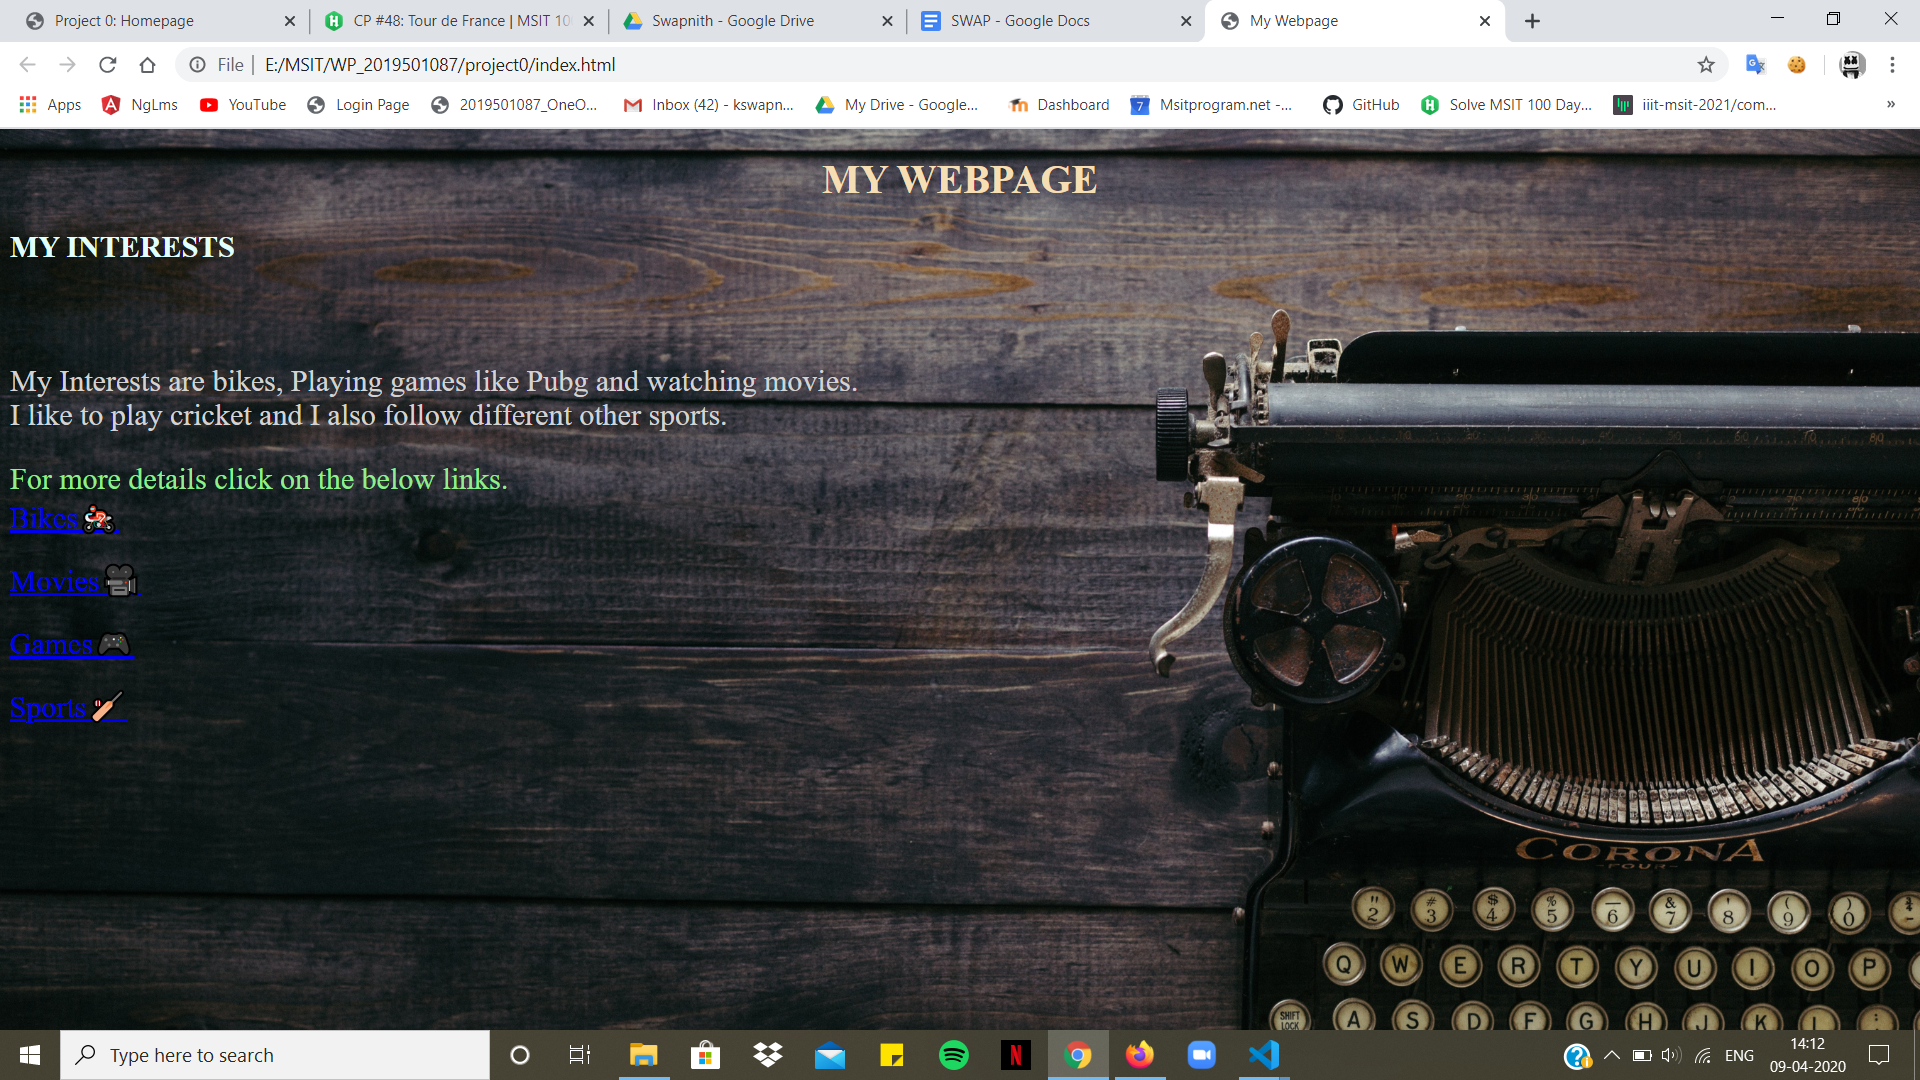
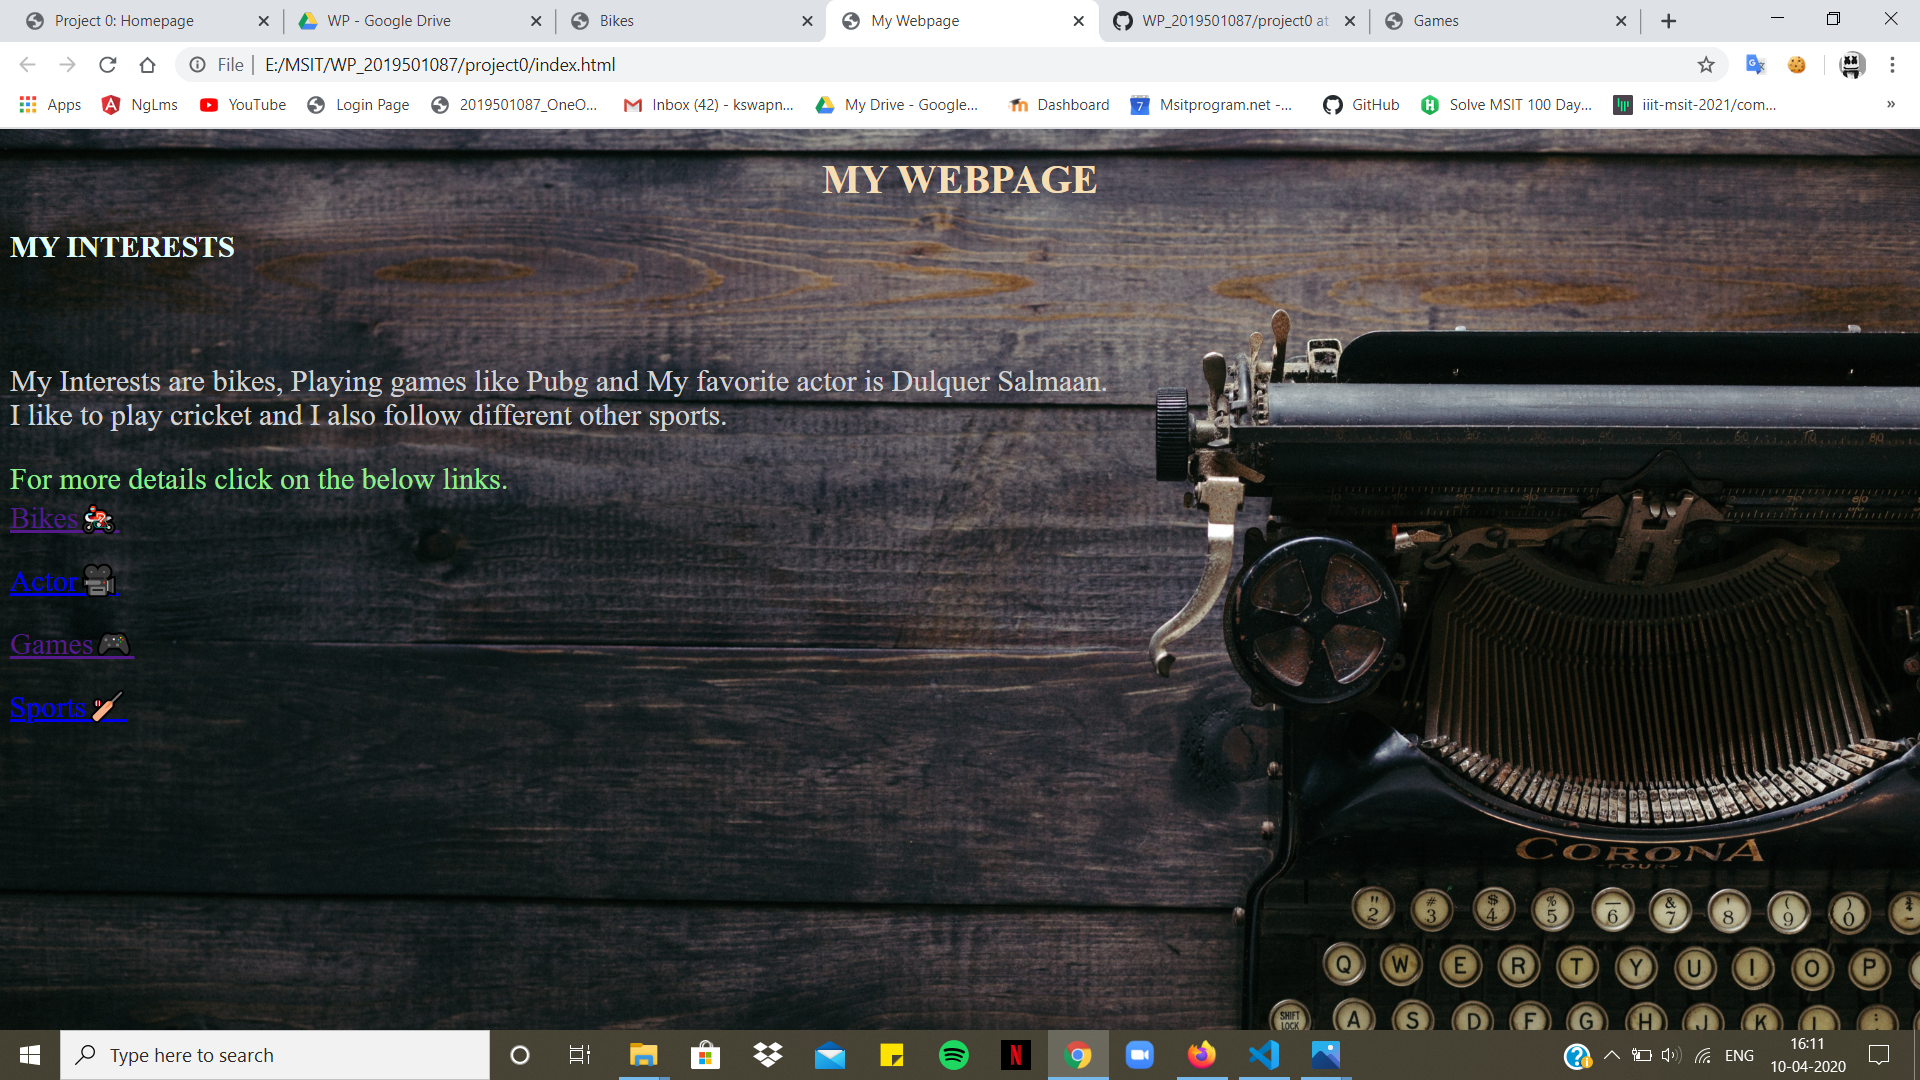
Main page

diff --git a/project0/index.html b/project0/index.html
@@ -9,7 +9,7 @@
             <h1> MY WEBPAGE</h1>
             <h2>MY INTERESTS</h2><br><br>
             <p>
-                 My Interests are bikes, Playing games like Pubg and watching movies.<br>
+                 My Interests are bikes, Playing games like Pubg and My favorite actor is Dulquer Salmaan.<br>
                  I like to play cricket and I also follow different other sports.</br>
             </p>
             <p2>
@@ -17,7 +17,7 @@
             </p2>
 
             <p1><a href="Bikes.html">Bikes🏍</a></p1><br><br>
-            <p1><a href="Movies.html">Movies🎥</a></p1><br><br>
+            <p1><a href="Actor.html">Actor🎥</a></p1><br><br>
             <p1><a href="Games.html">Games🎮</a></p1><br><br>
             <p1><a href="Sports.html">Sports🏏</a></p1>
          
